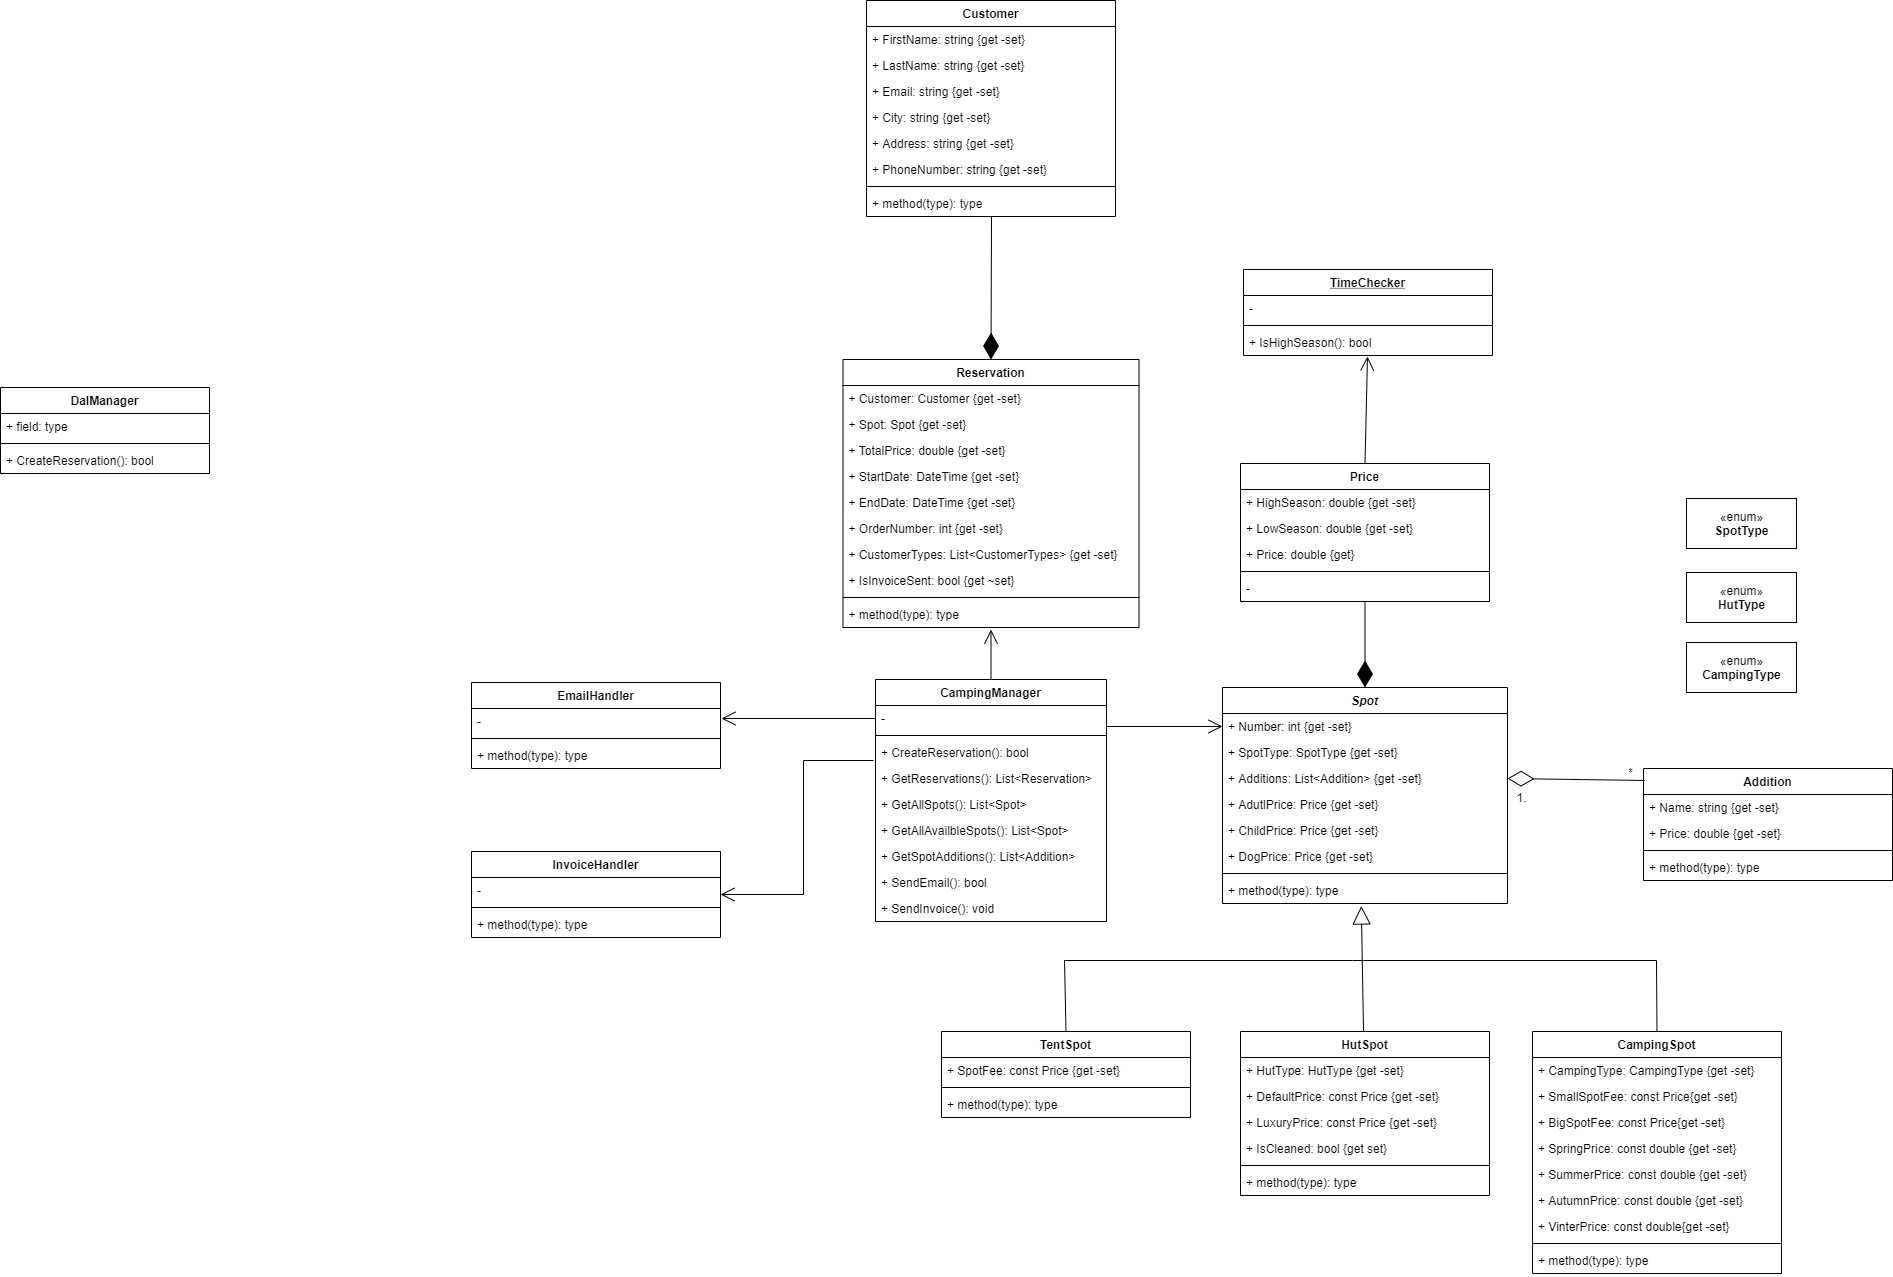
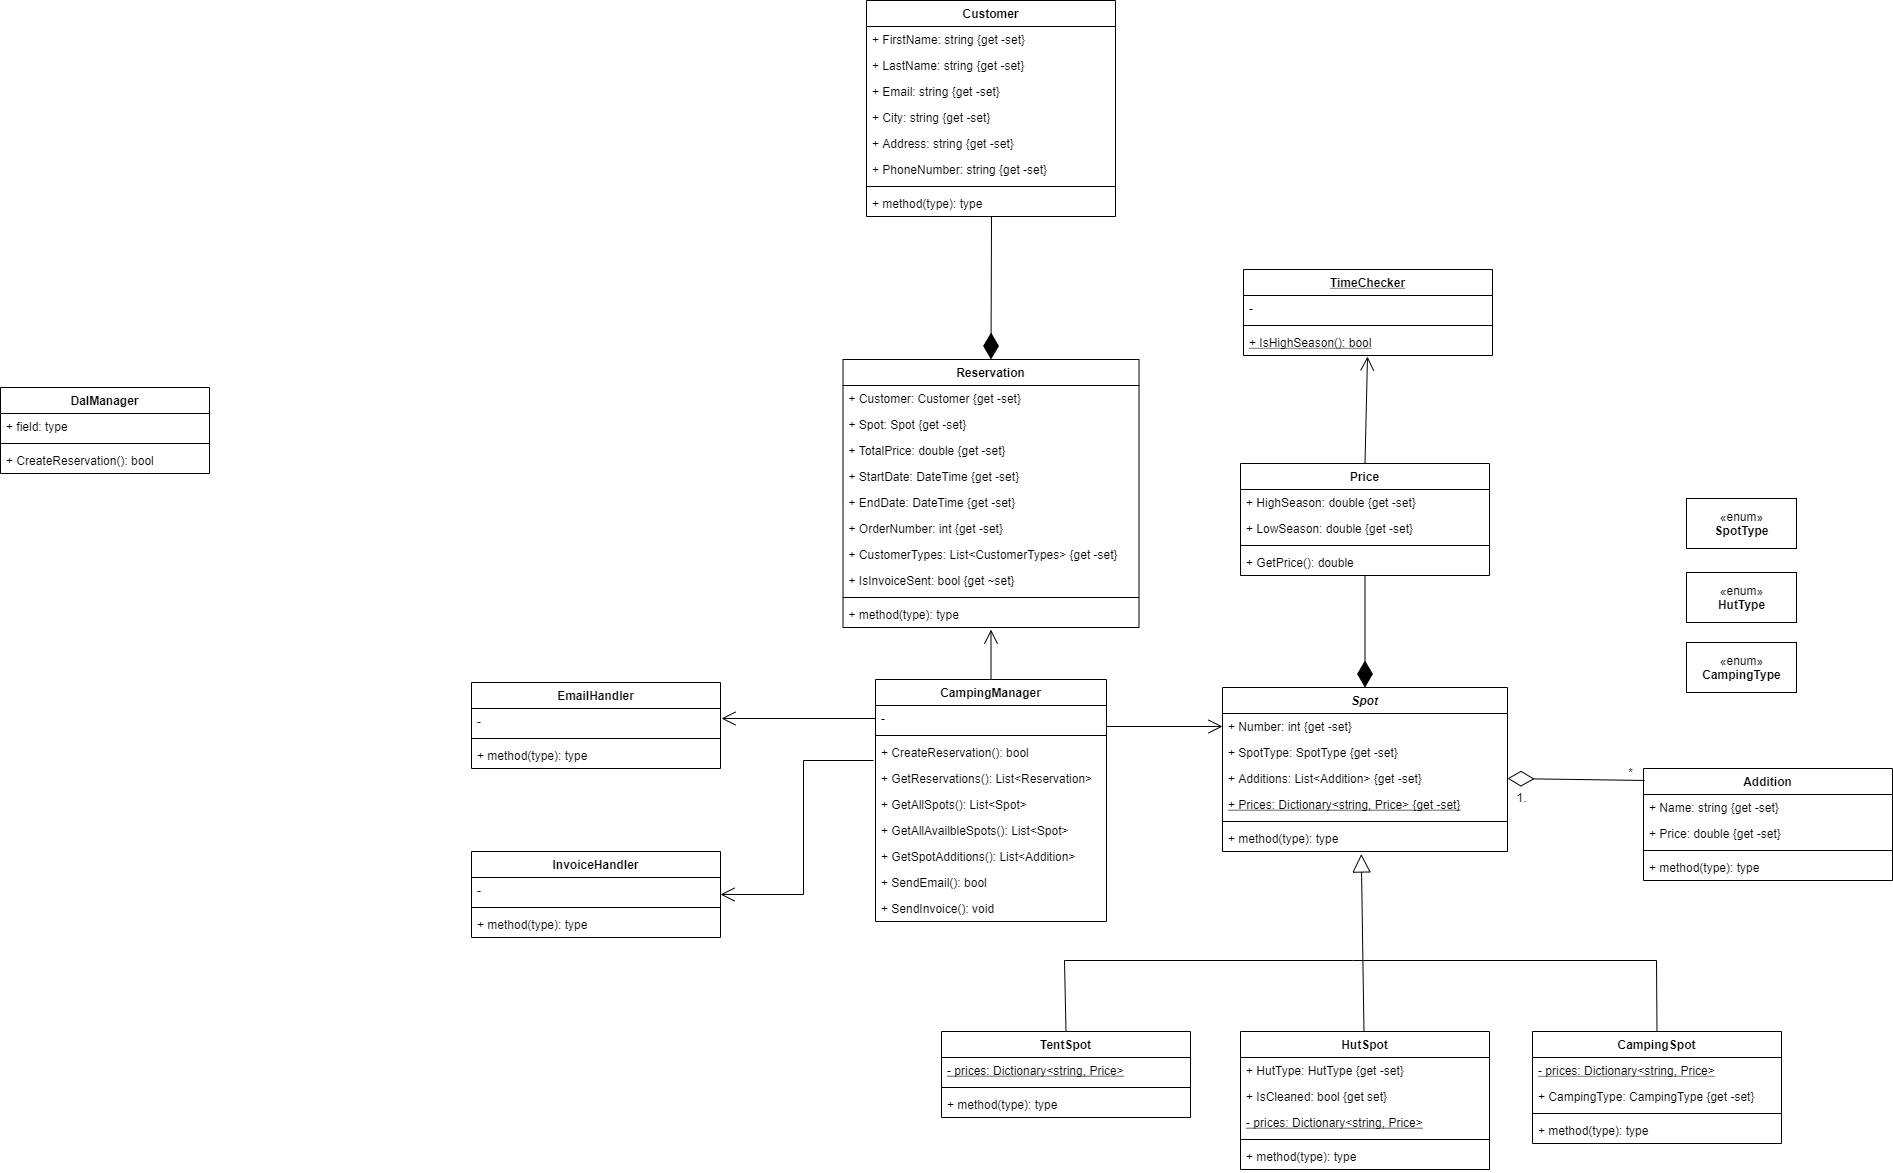
Updated libary

diff --git a/H2-ZAPBeachCamping/Reservation.cs b/H2-ZAPBeachCamping/Reservation.cs
@@ -1,0 +1,31 @@
+using System;
+using System.Collections.Generic;
+using System.Text;
+
+namespace ZAPBeachCampingLib
+{
+    public class Reservation
+    {
+        #region Properties
+        public Customer Customer { get; private set; }
+        public Spot Spot { get; private set; }
+        public DateTime StartDate { get; private set; }
+        public DateTime EndDate { get; private set; }
+        public int OrderNumber { get; private set; }
+        public List<CustomerType> CustomerTypes { get; private set; }
+        public bool IsInvoiceSent { get; internal set; }
+        #endregion
+
+        #region Constructors
+        public Reservation(Customer customer, Spot spot, DateTime startDate, DateTime endDate, int orderNumber, List<CustomerType> customerTypes)
+        {
+            Customer = customer;
+            Spot = spot;
+            StartDate = startDate;
+            EndDate = endDate;
+            OrderNumber = orderNumber;
+            CustomerTypes = customerTypes;
+        }
+        #endregion
+    }
+}

diff --git a/H2-ZAPBeachCamping/CampingSpot.cs b/H2-ZAPBeachCamping/CampingSpot.cs
@@ -1,0 +1,30 @@
+using System;
+using System.Collections.Generic;
+using System.Text;
+
+namespace ZAPBeachCampingLib
+{
+    public class CampingSpot : Spot
+    {
+        private static Dictionary<string, Price> prices = new Dictionary<string, Price>()
+        {
+            {"SMALL_SPOT_FEE", new Price(500, 350) },
+            {"BIG_SPOT_FEE", new Price(850, 600) },
+            {"ADULT_PRICE", new Price(82, 87) },
+            {"CHILD_PRICE", new Price(42, 49) },
+            {"DOG_PRICE", new Price(30, 30) },
+            {"SPRING_PRICE", new Price(4100, 4100)},
+            {"SUMMER_PRICE", new Price(9300, 9300)},
+            {"AUTUMN_PRICE", new Price(2900, 2900)},
+            {"VINTER_PRICE", new Price(3500, 3500)},
+        };
+
+        public CampingType CampingType { get; set; }
+
+        public CampingSpot(int number, List<Addition> additions, CampingType campingType) 
+            : base(number, SpotType.CampingSite, additions, prices)
+        {
+            CampingType = campingType;
+        }
+    }
+}

diff --git a/H2-ZAPBeachCamping/Customer.cs b/H2-ZAPBeachCamping/Customer.cs
@@ -1,0 +1,33 @@
+using System;
+using System.Collections.Generic;
+using System.Text;
+
+namespace ZAPBeachCampingLib
+{
+    public class Customer
+    {
+        #region Properties
+
+        public string FirstName { get; private set; }
+        public string LastName { get; private set; }
+        public string Email { get; private set; }
+        public string City { get; private set; }
+        public string Address { get; private set; }
+        public string PhoneNumber { get; private set; }
+        #endregion
+        
+        #region Constructor
+        public Customer(string firstName, string lastName, string email, string city, string address, string phoneNumber)
+        {
+            FirstName = firstName;
+            LastName = lastName;
+            Email = email;
+            City = city;
+            Address = address;
+            PhoneNumber = phoneNumber;
+        }
+
+        
+        #endregion
+    }
+}

diff --git a/H2-ZAPBeachCamping/HutSpot.cs b/H2-ZAPBeachCamping/HutSpot.cs
@@ -1,0 +1,25 @@
+using System;
+using System.Collections.Generic;
+using System.Text;
+
+namespace ZAPBeachCampingLib
+{
+    public class HutSpot : Spot
+    {
+        private static Dictionary<string, Price> prices = new Dictionary<string, Price>()
+        {
+            {"DEFAULT_PRICE", new Price(500, 350) },
+            {"LUXURY_PRICE", new Price(850, 600) },
+            {"ADULT_PRICE" , new Price(82, 87) },
+            {"CHILD_PRICE" , new Price(42, 49) },
+            {"DOG_PRICE", new Price(30, 30) },
+        };
+        public HutType HutType{ get; private set; }
+        public bool IsCleaned { get; set; } = true;
+        public HutSpot(int number,  List<Addition> additions, HutType hutType) 
+            : base(number, SpotType.HutSite, additions, prices)
+        {
+            HutType = hutType;
+        }
+    }
+}

diff --git a/H2-ZAPBeachCamping/Price.cs b/H2-ZAPBeachCamping/Price.cs
@@ -1,0 +1,38 @@
+using System;
+using System.Collections.Generic;
+using System.Text;
+
+namespace ZAPBeachCampingLib
+{
+    public class Price
+    {
+        #region Properties
+
+        public double HighSeason { get; private set; }
+        public double LowSeason { get; private set; }
+        #endregion
+
+        #region Constructors
+        public Price(double highSeason, double lowSeason)
+        {
+            HighSeason = highSeason;
+            LowSeason = lowSeason;
+        }
+        #endregion
+
+        #region Methods
+
+        public double GetPrice()
+        {
+            if (TimeChecker.IsHighSeason())
+            {
+                return HighSeason;
+            }
+            else
+            {
+                return LowSeason;
+            }
+        }
+        #endregion
+    }
+}

diff --git a/H2-ZAPBeachCamping/Spot.cs b/H2-ZAPBeachCamping/Spot.cs
@@ -1,0 +1,27 @@
+using System;
+using System.Collections.Generic;
+using System.Text;
+
+namespace ZAPBeachCampingLib
+{
+    public abstract class Spot
+    {
+        #region Properties
+        public int Number { get; private set; }
+        public SpotType SpotType { get; private set; }
+        public List<Addition> Additions { get; private set; }
+        public Dictionary<string, Price> Prices { get; private set; }
+
+        #endregion
+
+        #region Constructors
+        public Spot(int number, SpotType spotType, List<Addition> additions, Dictionary<string, Price> prices)
+        {
+            Number = number;
+            SpotType = spotType;
+            Additions = additions;
+            Prices = prices;
+        }
+        #endregion
+    }
+}

diff --git a/H2-ZAPBeachCamping/TimeChecker.cs b/H2-ZAPBeachCamping/TimeChecker.cs
@@ -1,0 +1,24 @@
+using System;
+using System.Collections.Generic;
+using System.Text;
+
+namespace ZAPBeachCampingLib
+{
+    public static class TimeChecker
+    {
+        public static bool IsHighSeason()
+        {
+            DateTime highSeasonStart = new DateTime(DateTime.Now.Year, 6, 14);
+            DateTime highSeasonEnd = new DateTime(DateTime.Now.Year, 7, 15);
+            
+            if (DateTime.Now >= highSeasonStart && DateTime.Now <= highSeasonEnd)
+            {
+                return true;
+            }
+            else
+            {
+                return false;
+            }
+        }
+    }
+}

diff --git a/H2-ZAPBeachCamping/TentSpot.cs b/H2-ZAPBeachCamping/TentSpot.cs
@@ -1,0 +1,23 @@
+using System;
+using System.Collections.Generic;
+using System.Text;
+
+namespace ZAPBeachCampingLib
+{
+    public class TentSpot : Spot
+    {
+        private static Dictionary<string, Price> prices = new Dictionary<string, Price>()
+        {
+            {"ADULT_PRICE" , new Price(82, 87) },
+            {"CHILD_PRICE" , new Price(42, 49) },
+            {"SPOT_FEE", new Price(35, 45) },
+        };
+
+        public TentSpot(int number, List<Addition> additions) 
+            : base(number, SpotType.TentSite, additions, prices)
+        {
+
+        }
+
+    }
+}

diff --git a/H2-ZAPBeachCamping/Addition.cs b/H2-ZAPBeachCamping/Addition.cs
@@ -1,0 +1,23 @@
+using System;
+using System.Collections.Generic;
+using System.Text;
+
+namespace ZAPBeachCampingLib
+{
+    public class Addition
+    {
+        #region Properties
+        public string Name { get; private set; }
+        public double Price { get; private set; }
+        #endregion
+
+        #region Constructors
+
+        public Addition(string name, double price)
+        {
+            Name = name;
+            Price = price;
+        }
+        #endregion
+    }
+}

diff --git a/H2-ZAPBeachCamping/TentSpotBase.cs b/H2-ZAPBeachCamping/TentSpotBase.cs
@@ -1,0 +1,6 @@
+namespace ZAPBeachCampingLib
+{
+    public class TentSpotBase
+    {
+    }
+}
